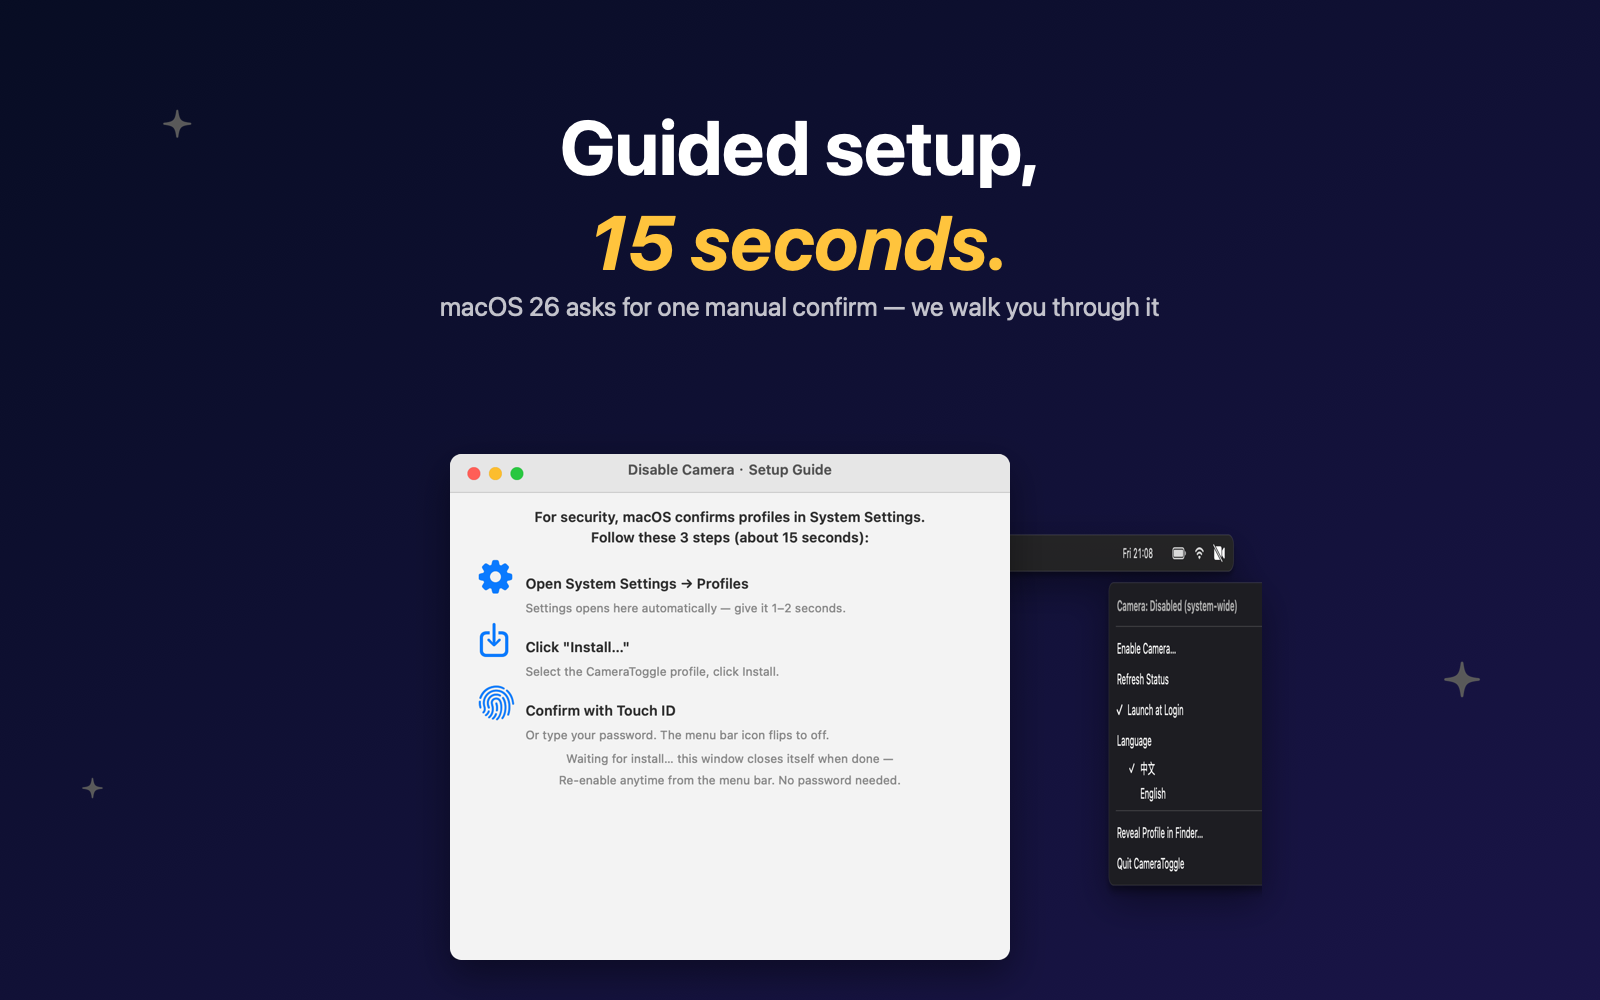
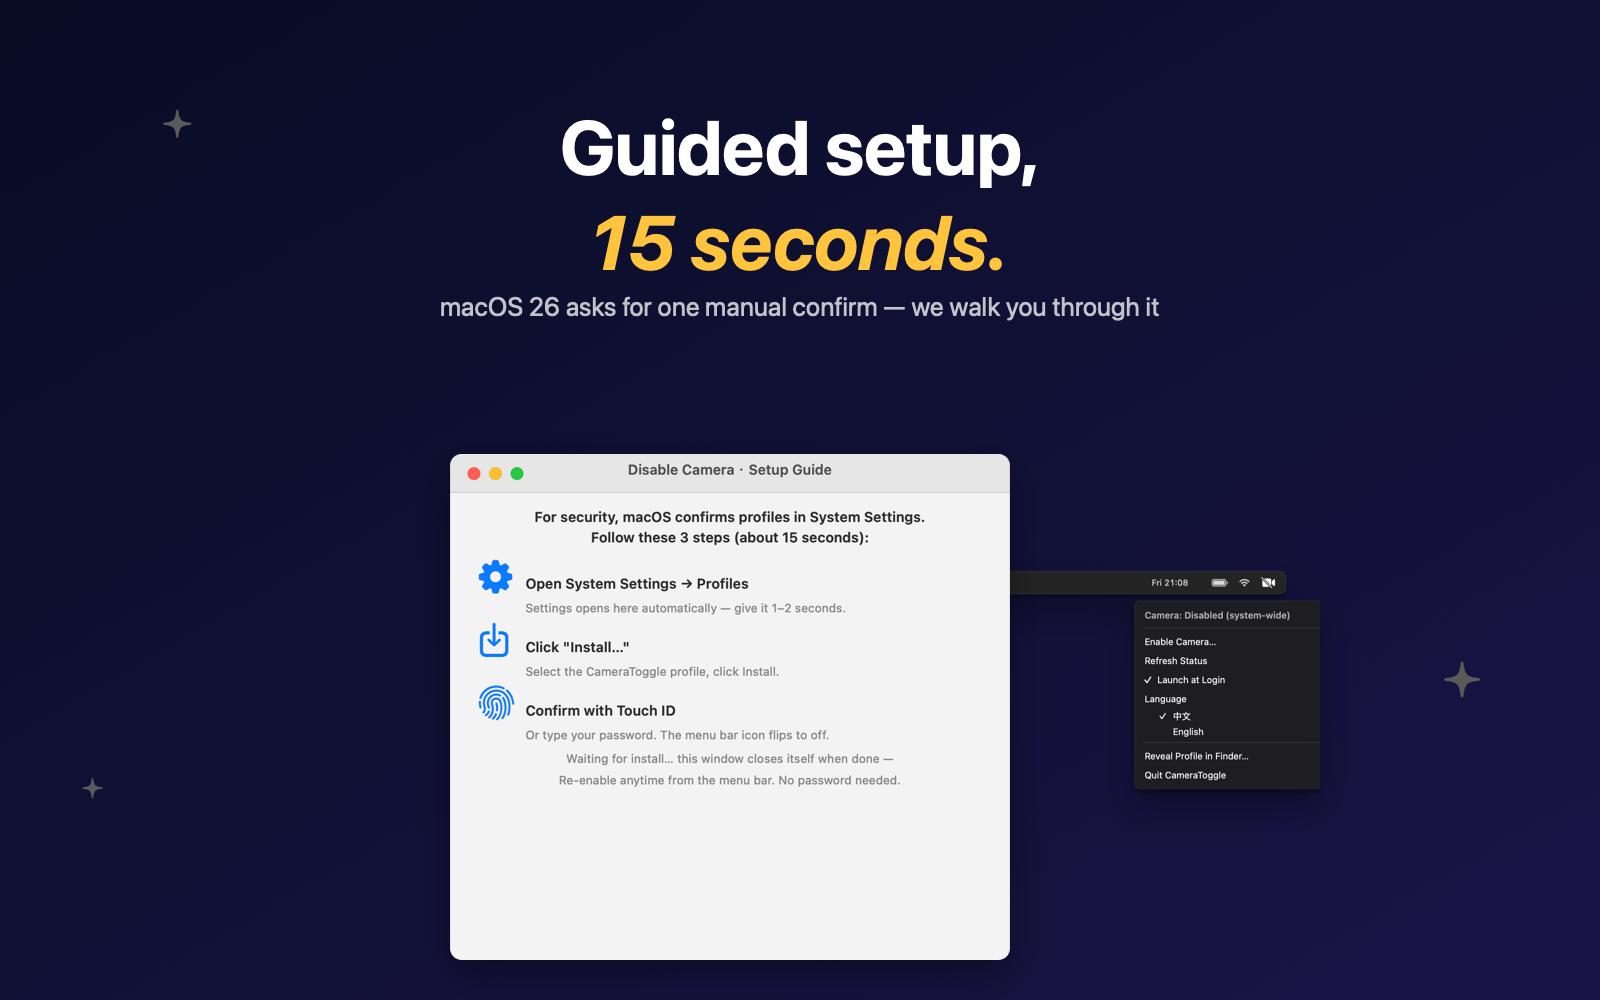
Fix horizontally squished UI cards in marketing images
composite() stretched images into non-matching aspect rects; add
compositeFit() that scales proportionally and centers. Regenerated
all hero/banner/guide images (en + zh).

Changed region(s): [[0.6562, 0.527, 0.8438, 0.899]]

diff --git a/shotgen.swift b/shotgen.swift
@@ -402,6 +402,15 @@ func composite(_ imagePath: String, in rect: NSRect, shadow: Bool = true) {
     NSShadow().set()
 }
 
+/// 等比缩放合成：在 rect 内取最大等比尺寸并居中，避免拉伸变形。
+func compositeFit(_ imagePath: String, in rect: NSRect, shadow: Bool = true) {
+    guard let image = NSImage(contentsOfFile: imagePath) else { fatalError("missing \(imagePath)") }
+    let scale = min(rect.width / image.size.width, rect.height / image.size.height)
+    let w = image.size.width * scale
+    let h = image.size.height * scale
+    composite(imagePath, in: NSRect(x: rect.midX - w / 2, y: rect.midY - h / 2, width: w, height: h), shadow: shadow)
+}
+
 // MARK: - Hero 幻灯片（广告式大标题 + UI 卡片）
 
 func heroSlide(lang: String, cardPath: String, out: String) {
@@ -430,10 +439,8 @@ func heroSlide(lang: String, cardPath: String, out: String) {
                          cx: W / 2, cy: H - 310)
         }
 
-        // UI 卡片（约 640 宽）
-        let cardW: CGFloat = 660
-        let cardH: CGFloat = 700
-        composite(cardPath, in: NSRect(x: (W - cardW) / 2, y: 40, width: cardW, height: cardH))
+        // UI 卡片：等比缩放（卡片原生约 1.78:1 横宽），禁止拉伸
+        compositeFit(cardPath, in: NSRect(x: (W - 700) / 2, y: 55, width: 700, height: 430))
     }
     save(rep, out)
 }
@@ -478,9 +485,9 @@ func guideSlide(lang: String, guidePath: String, menuPath: String, out: String) 
                          color: NSColor.white.withAlphaComponent(0.75), cx: W / 2, cy: H - 310)
         }
 
-        // 菜单卡片在背后偏右，引导窗口在前偏左，形成层次
-        composite(menuPath, in: NSRect(x: W * 0.52, y: 60, width: 430, height: 460))
-        composite(guidePath, in: NSRect(x: W * 0.30 - 30, y: 40, width: 560, height: 506))
+        // 菜单卡片在背后偏右（等比），引导窗口在前偏左，形成层次
+        compositeFit(menuPath, in: NSRect(x: W * 0.50, y: 90, width: 520, height: 460))
+        compositeFit(guidePath, in: NSRect(x: W * 0.30 - 30, y: 40, width: 560, height: 506))
     }
     save(rep, out)
 }
@@ -542,8 +549,8 @@ func banner(lang: String, menuPath: String, out: String) {
                      color: NSColor.white.withAlphaComponent(0.6), x: tx + 4, cy: H / 2 - 130)
         }
 
-        // 右下角小菜单条呼应
-        composite(menuPath, in: NSRect(x: W - 560, y: 40, width: 470, height: 500))
+        // 右下角小菜单条呼应（等比）
+        compositeFit(menuPath, in: NSRect(x: W - 640, y: 90, width: 560, height: 460))
     }
     save(rep, out)
 }
